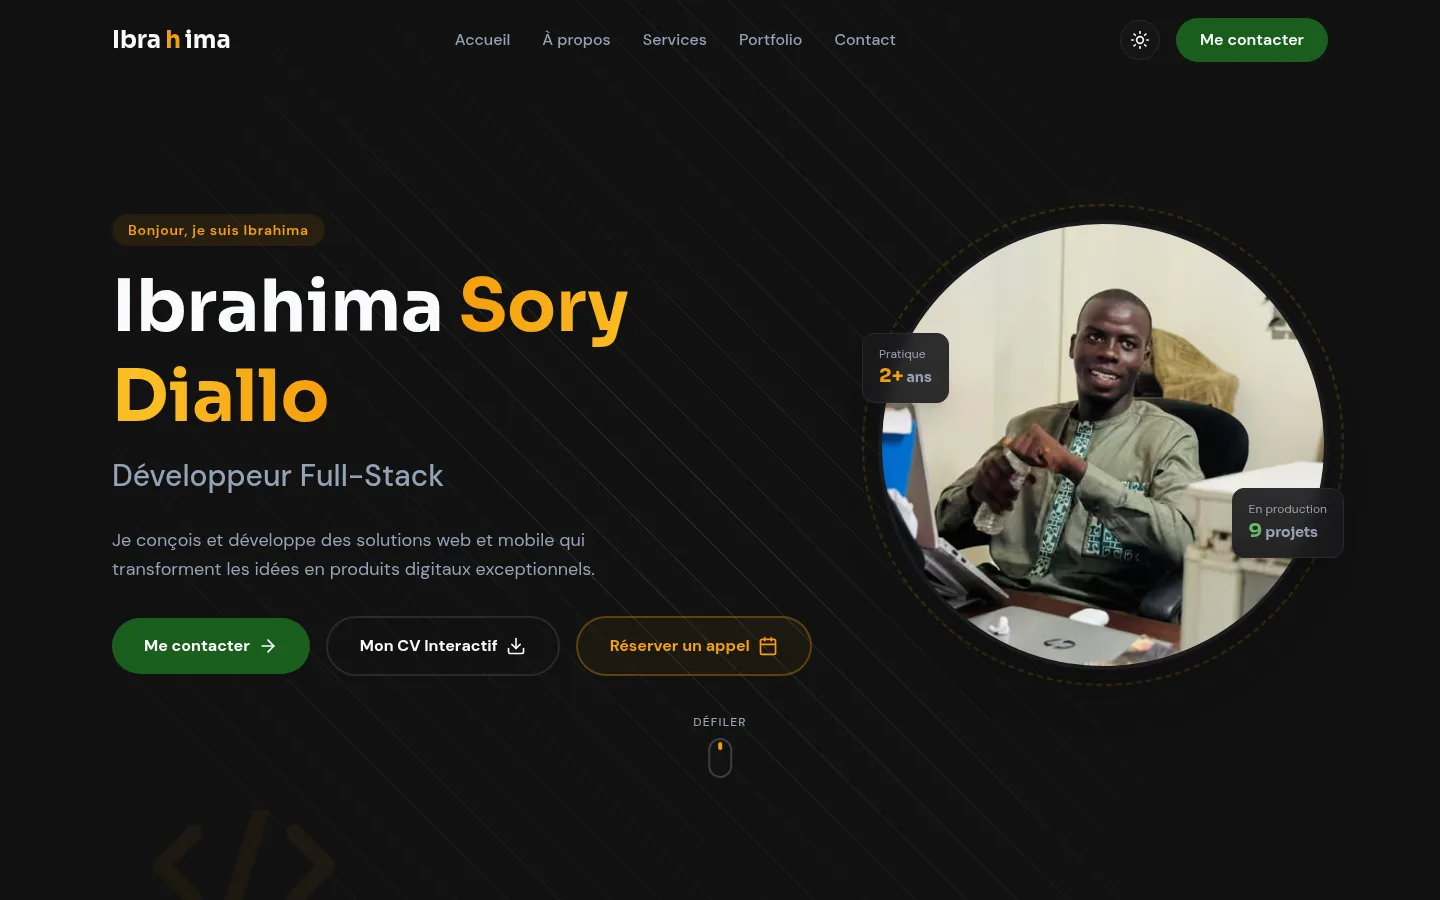
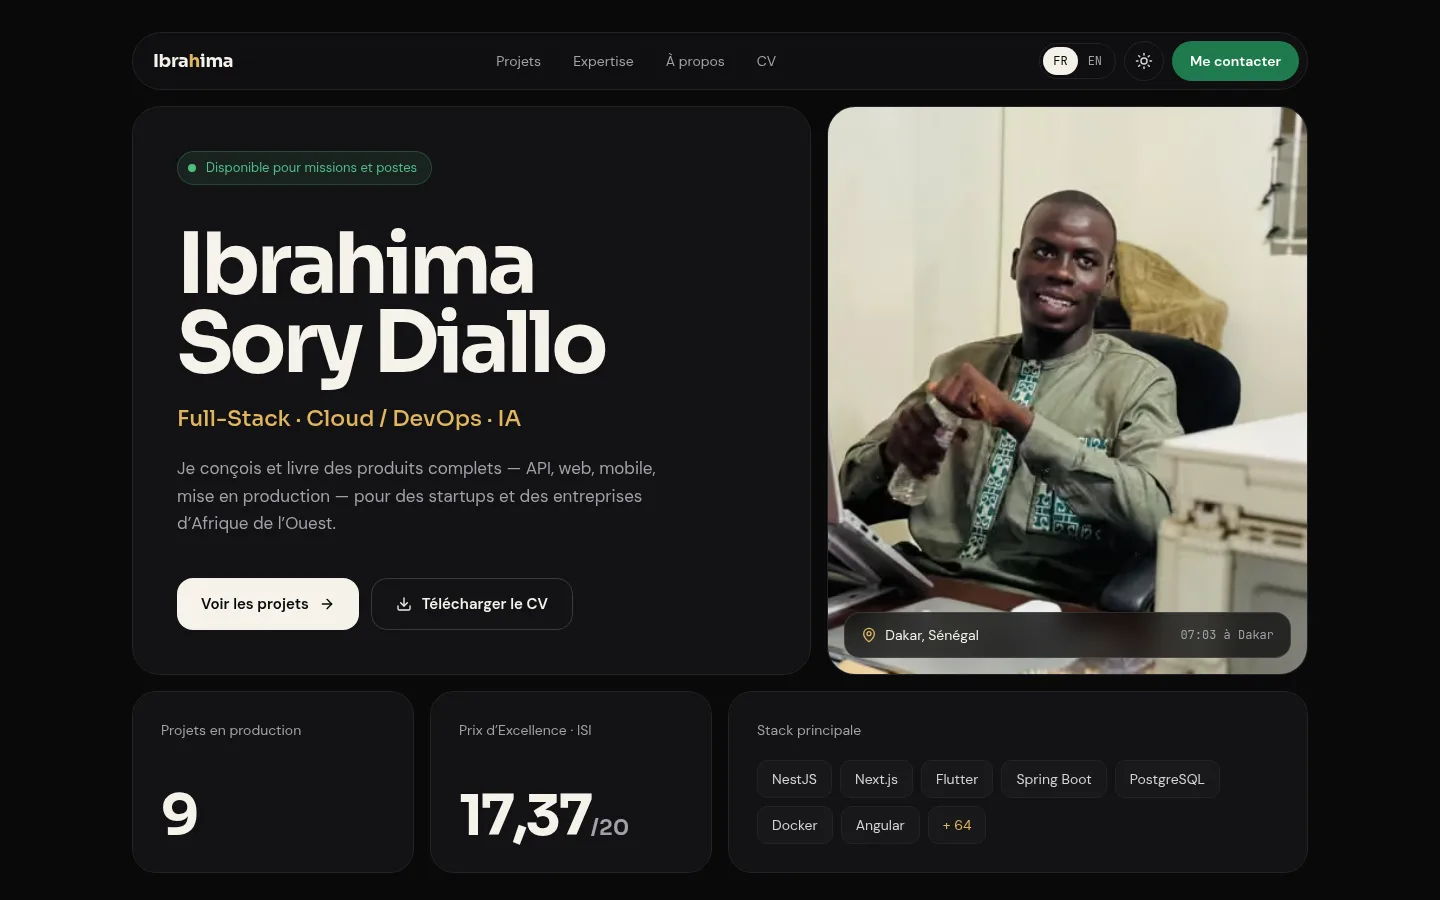
docs: document the redesign and the English version
README:
- Describes the bilingual site (French at the root, English under
  /en), the bento design and each page, the restrained animations and
  the hreflang / share image SEO
- "Edit the content" now points to content/ and the dictionaries,
  explains the { fr, en } format and that a missing translation fails
  to compile
- Updated structure (app/[lang], components/site, home, projects,
  about, cv, contact, ui, motion), stack (Framer Motion 14), Node.js
  20.19 requirement and test description
- New preview image of the redesigned home page (docs/apercu.webp)

docs/AUDIT.md: new "Bento immersif redesign and English version"
section in the follow-up log, with each step, how it was checked, the
Lighthouse results and what still depends on Ibrahima.

diff --git a/README.md b/README.md
@@ -1,6 +1,6 @@
 # Portfolio d'Ibrahima Sory Diallo
 
-Portfolio de développeur Full-Stack basé à Dakar : parcours, compétences, projets en production, CV interactif et formulaire de contact. Identité visuelle « Premium Sénégal » : vert profond, or et rouge sur fond obsidienne, en thème sombre et clair.
+Portfolio bilingue (français / anglais) de développeur Full-Stack basé à Dakar : projets en production, études de cas, parcours, compétences, CV imprimable et formulaire de contact. Design « Bento immersif » : cartes en grille, grande typographie, or et vert du drapeau sénégalais sur fond obsidienne ou ivoire, en thème sombre et clair.
 
 **Site en ligne : [ibrahima-devs-portfolio.vercel.app](https://ibrahima-devs-portfolio.vercel.app)**
 
@@ -10,13 +10,14 @@ Portfolio de développeur Full-Stack basé à Dakar : parcours, compétences, pr
 
 ## Fonctionnalités
 
-- **Accueil** : présentation, services, statistiques, parcours, processus de travail, projets filtrables par catégorie, témoignages et contact.
-- **Études de cas** (`/projects/[slug]`) : architecture, défis techniques et lien vers le site en ligne, avec une image de partage générée pour chaque projet.
-- **CV interactif** (`/cv`) : version web imprimable et PDF à télécharger.
-- **Formulaire de contact** : envoi par [Resend](https://resend.com), validation des champs, protection anti-spam (champ piège, délai minimal, limitation de débit par IP).
-- **Thème sombre / clair**, contrastes conformes WCAG AA.
-- **Accessibilité** : navigation au clavier, lien d'évitement, menu mobile accessible, respect de « réduire les animations ».
-- **SEO** : métadonnées et URL canonique par page, images Open Graph générées, sitemap, robots.txt, données structurées `Person`.
+- **Deux langues** : français à la racine (`/about`), anglais sous `/en` (`/en/about`), sélecteur FR | EN qui garde la page courante. Tous les textes, dates et nombres suivent la langue.
+- **Accueil en bento** : identité, photo avec l'heure de Dakar, chiffres clés, stack, projets mis en avant, parcours et expertise, compétences, services et méthode, témoignages, contact.
+- **Projets** (`/projects`) : filtres par catégorie et études de cas (`/projects/[slug]`) avec architecture, défis techniques, extrait de code et image de partage par projet et par langue.
+- **À propos** (`/about`) et **CV** (`/cv`) : parcours en frise, distinctions, compétences ; CV rendu côté serveur, imprimable en A4 et disponible en PDF.
+- **Formulaire de contact** : envoi par [Resend](https://resend.com), erreurs affichées dans la langue de la page, protection anti-spam (champ piège, délai minimal, limitation de débit par IP).
+- **Animations sobres** : entrée de l'accueil en CSS, apparition au défilement, transition de l'image d'un projet vers son étude de cas ; toutes coupées par « réduire les animations ».
+- **Thème sombre / clair**, contrastes conformes WCAG AA ; navigation au clavier, lien d'évitement, menu mobile accessible.
+- **SEO** : URL canonique et versions `hreflang` par page, images Open Graph générées, sitemap bilingue, robots.txt, données structurées `Person`.
 
 ## Stack
 
@@ -24,14 +25,14 @@ Portfolio de développeur Full-Stack basé à Dakar : parcours, compétences, pr
 | :--- | :--- |
 | Framework | Next.js 16 (App Router, Turbopack), React 19, TypeScript 5 |
 | Style | Tailwind CSS 4 |
-| Animations | Framer Motion 12 |
+| Animations | Framer Motion 14, animations CSS |
 | Formulaire | Resend, Zod 4 |
 | Tests | Vitest (unitaires), Playwright (de bout en bout) |
 | Qualité | ESLint, Prettier, GitHub Actions, Dependabot |
 
 ## Démarrage
 
-Prérequis : Node.js 20.9 ou plus.
+Prérequis : Node.js 20.19 ou plus.
 
 ```bash
 git clone https://github.com/IbrahimaISIDev/ibrahima-diallo-portfolio-premium.git
@@ -46,7 +47,7 @@ npm run dev                   # http://localhost:3000
 | Variable | Rôle |
 | :--- | :--- |
 | `RESEND_API_KEY` | Clé API Resend, **obligatoire** pour que le formulaire envoie des emails |
-| `CONTACT_TO` | Adresse qui reçoit les messages (par défaut : l'email de `data/personal.ts`) |
+| `CONTACT_TO` | Adresse qui reçoit les messages (par défaut : l'email de `content/profile.ts`) |
 | `CONTACT_FROM` | Expéditeur, sur un domaine vérifié dans Resend (par défaut : l'adresse de test `onboarding@resend.dev`, qui ne délivre qu'au propriétaire du compte) |
 
 ## Scripts
@@ -58,33 +59,36 @@ npm run dev                   # http://localhost:3000
 | `npm run lint` | ESLint |
 | `npm run typecheck` | Vérification TypeScript |
 | `npm run format` / `npm run format:check` | Formatage Prettier |
-| `npm test` | Tests unitaires (route de contact) |
+| `npm test` | Tests unitaires (route de contact, langues, métadonnées) |
 | `npm run test:e2e` | Tests de bout en bout sur le build de production (lancer `npm run build` avant ; en local, `CHROME_PATH` permet d'utiliser le Chrome installé) |
 
 ## Modifier le contenu
 
-Tout le contenu éditorial se trouve dans `data/` : pas besoin de toucher aux composants.
+Le contenu est dans `content/`, les textes de l'interface dans `lib/i18n/dictionaries.ts` : pas besoin de toucher aux composants. Chaque texte existe en français et en anglais (`{ fr: "…", en: "…" }`) ; un nom propre ou une technologie peut rester une simple chaîne. TypeScript signale toute traduction manquante.
 
 | Fichier | Contenu |
 | :--- | :--- |
-| `data/personal.ts` | Identité, contact, réseaux, résumé, statistiques, distinctions du CV |
-| `data/experience.ts` | Parcours professionnel et formation (`type: "work"` ou `"education"`) |
-| `data/projects.ts` | Projets et études de cas ; les filtres du portfolio en sont déduits |
-| `data/skills.ts` | Compétences, groupées par domaine |
-| `data/services.ts` | Services proposés |
-| `data/testimonials.ts` | Témoignages (lien LinkedIn optionnel par auteur) |
-| `data/workflow.ts` | Étapes du processus de travail |
+| `content/profile.ts` | Identité, contact, réseaux, titres, accroche, résumé, chiffres clés, distinctions |
+| `content/experience.ts` | Parcours professionnel et formation (`type: "work"` ou `"education"`, dates `AAAA-MM`) |
+| `content/projects.ts` | Projets et études de cas ; `featured` les met en avant sur l'accueil, les filtres sont déduits des catégories |
+| `content/skills.ts` | Compétences groupées par domaine, et la stack principale de l'accueil |
+| `content/services.ts` | Services proposés |
+| `content/testimonials.ts` | Témoignages (citation originale en français, lien LinkedIn optionnel) |
+| `content/workflow.ts` | Étapes de la méthode de travail |
+| `lib/i18n/dictionaries.ts` | Textes de l'interface et métadonnées de chaque page ; l'anglais doit avoir la même forme que le français |
 | `public/images/` | Photo de profil et captures des projets (WebP recommandé) |
 | `public/cv/` | CV au format PDF |
 
 ## Structure
 
 ```
-app/          Pages (App Router), route API de contact, images de partage, icônes, sitemap
-components/   layout/ (header, menu, footer), sections/ (accueil), shared/ (composants réutilisables)
-data/         Contenu éditorial
-lib/          Configuration du site, métadonnées, animations, utilitaires
-types/        Types TypeScript du contenu
+app/[lang]/   Pages de chaque langue (accueil, projets, études de cas, à propos, CV, contact, 404)
+              et images de partage ; next.config.ts sert le français à la racine
+app/          Route API de contact, icônes, manifeste, sitemap, robots.txt, styles globaux
+components/   site/ (header, menu, footer, langue), home/, projects/, about/, cv/, contact/,
+              ui/ (cartes, boutons, typographie), motion/ (apparition au défilement), shared/
+content/      Contenu bilingue et sa mise en forme par langue (getContent)
+lib/          i18n/ (langues, dictionnaires), métadonnées, navigation, images de partage, utilitaires
 tests/        unit/ (Vitest) et e2e/ (Playwright)
 docs/         Rapport d'audit et brief initial du projet
 ```
@@ -97,7 +101,7 @@ Le site se déploie sur [Vercel](https://vercel.com) sans configuration particul
 
 ## Documentation
 
-- [`docs/AUDIT.md`](docs/AUDIT.md) : audit complet du projet (66 constats, plan d'action en trois phases et suivi des corrections).
+- [`docs/AUDIT.md`](docs/AUDIT.md) : audit complet du projet (66 constats, plan d'action en trois phases, suivi des corrections et refonte).
 - [`docs/brief-initial.md`](docs/brief-initial.md) : brief de conception d'origine (objectifs, cibles, direction artistique).
 
 ---

diff --git a/docs/AUDIT.md b/docs/AUDIT.md
@@ -711,3 +711,22 @@ Total : **23 vulnérabilités** (1 critique, 15 hautes, 6 modérées, 1 faible),
 | Formulaire : message sous chaque champ, vrai message du serveur, confirmation explicite, compteur de caractères | 13 tests unitaires ; scénarios vérifiés dans Chrome |
 | Contact WhatsApp (bloc contact, footer, CV) | — |
 | Photo de profil visible sur mobile, en version compacte | Performance mobile stable ou meilleure (90-93 contre 88-91) |
+
+### Refonte « Bento immersif » et version anglaise : 23 octobre 2026
+
+Trois directions ont été maquettées (éditoriale, bento, éditoriale à grande typographie). La direction retenue combine le bento immersif, la grande typographie du héros et une liste de parcours sobre. L'identité « Premium Sénégal » est conservée en version raffinée, avec des animations riches mais maîtrisées.
+
+| Étape | Contenu | Vérification |
+|---|---|---|
+| Charte | Nouveaux tokens (`canvas`, `card`, `line`, `ink`, `gold`, `leaf`, `ember`…) dans les deux thèmes ; composants `ui/` (carte, bouton, typographie, conteneur) | Contrastes AA mesurés pour chaque couple texte / fond |
+| Contenu bilingue | `content/` remplace `data/` : chaque texte en `{ fr, en }`, résolu par `getContent(locale)` ; dictionnaires d'interface typés (l'anglais doit avoir la forme du français) | Typage strict : une traduction manquante ne compile pas |
+| Routage | Toutes les pages sous `app/[lang]` ; français à la racine par réécritures statiques, anglais sous `/en`, `/fr/...` redirigé en 308, URL inconnues en 404 dans la bonne langue | Statuts HTTP vérifiés sur le build ; tests de bout en bout |
+| Gabarit | Header en pastille flottante (navigation, FR \| EN, thème, contact), menu mobile plein écran, footer ; curseur personnalisé et confettis retirés | Focus, Échap et section active testés |
+| Pages | Accueil en bento, projets filtrables, études de cas, à propos, CV imprimable rendu côté serveur, contact, 404 | Captures 1440 px (sombre et clair) et 390 px ; CV imprimé en 5 pages A4 |
+| Formulaire | L'API renvoie un code d'erreur stable, traduit par le formulaire ; la langue de l'expéditeur figure dans le sujet de l'email | 21 tests unitaires |
+| SEO | Métadonnées par langue, `hreflang` (fr, en, x-default), images de partage par page et par langue, sitemap de 34 URL | Balises vérifiées dans le HTML servi |
+| Nettoyage | Suppression de `components/sections`, `data/`, `types/`, des anciens tokens, des animations en boucle et de `canvas-confetti` ; CSP resserrée (`worker-src 'self'`) | Lint, types, build et 19 tests de bout en bout au vert |
+
+**Lighthouse (build de production local, performance / accessibilité / bonnes pratiques / SEO)** : accueil mobile 93 / 100 / 100 / 100, desktop 100 / 100 / 100 / 100 ; autres pages mobiles entre 90 et 93 en performance, 100 ailleurs ; CLS 0 partout. Le LCP mobile simulé (3,1 à 3,6 s) vient surtout de l'émulation réseau ; le LCP observé est d'environ 0,2 s.
+
+**Restent ouverts** : les mêmes éléments qui dépendent d'Ibrahima (domaine, Calendly, nouveaux témoignages, détails des petits projets, visuels de Gestion de Flotte et Dashboard Analytics, domaine Resend vérifié, analytics). Les témoignages sont des traductions signalées comme telles en anglais.
